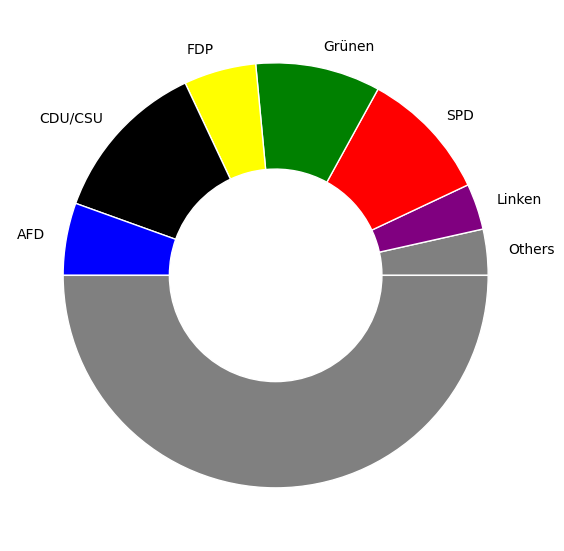
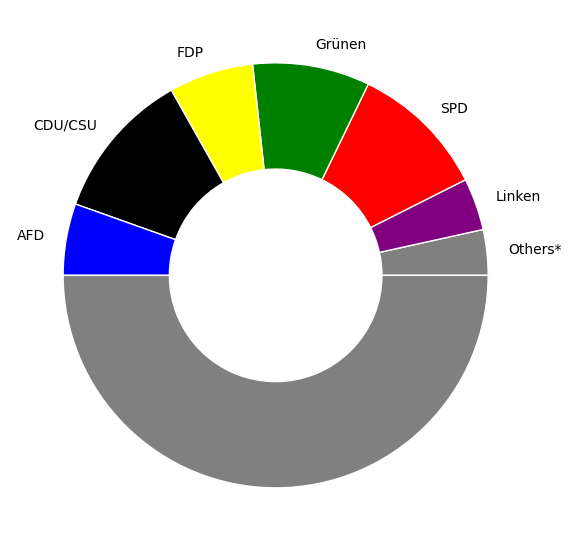
Created plotly chart and cleaned requirements.txt

diff --git a/app.py b/app.py
@@ -1,4 +1,5 @@
 #Imports
+import plotly.graph_objects as go
 from google.cloud import storage
 import matplotlib.pyplot as plt
 import matplotlib.image as mpimg
@@ -159,7 +160,7 @@ col1, col2,  = st.columns((1,1.2))
 col1.subheader("Our forecast")
 
 #data
-label = ["Others", "Linken", "SPD", "Grünen", "FDP", "CDU/CSU", "AFD"]
+label = ["Others*", "Linken", "SPD", "Grünen", "FDP", "CDU/CSU", "AFD"]
 colors = ["grey", "purple", "red", "green", "yellow", "black", "blue"]
 val = [OTHER_forecast, LINKE_forecast, SPD_forecast, GRUENE_forecast,
     FDP_forecast, CDU_forecast, AFD_forecast]
@@ -192,6 +193,9 @@ height_cutoff = height // 2
 s1 = img[:height_cutoff, :, :]
 col1.image(s1)
 
+st.markdown("\* Others are a combination of the current non-parliamentary parties")
+st.markdown("")
+st.markdown("")
 
 #-------------------------------------------------------------
 # 2nd Chart: Delphi vs. current poll (grouped bar chart)
@@ -240,13 +244,135 @@ col2.image(buf)
 
 #-------------------------------------------------------------
 # 3rd Graph: Timeline: Delphi vs. poll forecast
-st.markdown("## Latest polling data")
-st.markdown("")
+st.subheader("Development of poll data per party over the last month")
 
 # Create Line chart to display historic poll data
-st.line_chart(historic_polls)
+#st.line_chart(historic_polls)
+
+#plotly CHART
+fig0010 = go.Figure()
+fig0010.add_trace(
+    go.Scatter(x=historic_polls.index,
+               y=historic_polls["CDU/CSU"],
+               mode='lines',
+               line=dict(color='dimgray'),
+               name='CDU/CSU'))
+fig0010.add_trace(
+    go.Scatter(x=historic_polls.index,
+               y=historic_polls["SPD"],
+               mode='lines',
+               line=dict(color='lightcoral'),
+               name='SPD'))
+fig0010.add_trace(
+    go.Scatter(x=historic_polls.index,
+               y=historic_polls["Grüne"],
+               mode='lines',
+               line=dict(color='yellowgreen'),
+               name='Grünen'))
+fig0010.add_trace(
+    go.Scatter(x=historic_polls.index,
+               y=historic_polls["FDP"],
+               mode='lines',
+               line=dict(color='gold'),
+               name='FDP'))
+fig0010.add_trace(
+    go.Scatter(x=historic_polls.index,
+               y=historic_polls["AfD"],
+               mode='lines',
+               line=dict(color='cornflowerblue'),
+               name='AFD'))
+fig0010.add_trace(
+    go.Scatter(x=historic_polls.index,
+               y=historic_polls["Linke"],
+               mode='lines',
+               line=dict(color='plum'),
+               name='Linken'))
+fig0010.add_trace(
+    go.Scatter(x=historic_polls.index,
+               y=historic_polls["other"],
+               mode='lines',
+               line=dict(color='gray'),
+               name='Others'))
+fig0010.update_layout(width=1300,
+                      height=400,
+                      margin=dict(l=20, r=20, b=20, t=20),
+                      yaxis=dict(ticksuffix='%'))
+
+st.plotly_chart(fig0010)
+
 
 st.markdown("""---""")
+
+
+# ------------------------------------------------------------
+# 3rd Plotly
+
+# PLoty
+# x=historic_polls.index
+# fig000 = go.Figure()
+
+# fig000.add_trace(
+#     go.Scatter(
+#         x=x,
+#         y=historic_polls["CDU/CSU"],
+#         mode='lines',
+#         line=dict(width=0.5, color='black'),
+#         stackgroup='one',
+#         groupnorm=
+#         'percent'  # sets the normalization for the sum of the stackgroup
+#     ))
+# fig000.add_trace(
+#     go.Scatter(x=x,
+#                y=historic_polls["SPD"],
+#                mode='lines',
+#                line=dict(width=0.5, color='red'),
+#                stackgroup='one'))
+# fig000.add_trace(
+#     go.Scatter(x=x,
+#                y=historic_polls["Grüne"],
+#                mode='lines',
+#                line=dict(width=0.5, color='green'),
+#                stackgroup='one'))
+# fig000.add_trace(
+#     go.Scatter(x=x,
+#                y=historic_polls["FDP"],
+#                mode='lines',
+#                line=dict(width=0.5, color='yellow'),
+#                stackgroup='one'))
+
+# fig000.add_trace(
+#     go.Scatter(x=x,
+#                y=historic_polls["AfD"],
+#                mode='lines',
+#                line=dict(width=0.5, color='blue'),
+#                stackgroup='one'))
+
+# fig000.add_trace(
+#     go.Scatter(x=x,
+#                y=historic_polls["Linke"],
+#                mode='lines',
+#                line=dict(width=0.5, color='purple'),
+#                stackgroup='one'))
+
+# fig000.add_trace(
+#     go.Scatter(x=x,
+#                y=historic_polls["other"],
+#                mode='lines',
+#                line=dict(width=0.5, color='grey'),
+#                stackgroup='one'))
+
+# fig000.update_layout(
+#     showlegend=True,
+#     xaxis_type='category',
+#     yaxis=dict(
+#         type='linear',
+#         range=[1, 100],
+#         ticksuffix='%'),
+#     width=1300,
+#     height=400,
+#     margin=dict(l=20, r=20, b=20, t=20))
+
+# st.plotly_chart(fig000)
 
 #-------------------------------------------------------------
 # Twitter Insights
@@ -262,7 +388,7 @@ no_tweets_total = (no_of_tweets.iloc[0]["no_tweets_total"] / 1_000_000).round(1)
 col001.metric("Total # Tweets analyzed", f"{no_tweets_total} m")
 # No. of tweets yesterday
 no_tweets_today = (no_of_tweets.iloc[0]["no_tweets_today"]/1000).round(1)
-col002.metric("# Tweets yesterday", f"{no_tweets_today} k")
+col002.metric("# yesterday's Tweets", f"{no_tweets_today} k")
 
 #Select button to change behavoiur of Twitter KPI diagrams and displayed tweets
 parties_select = ["All", "CDU/CSU", "SPD", "Grünen", "FDP", "Linken", "AFD", "Others"]
